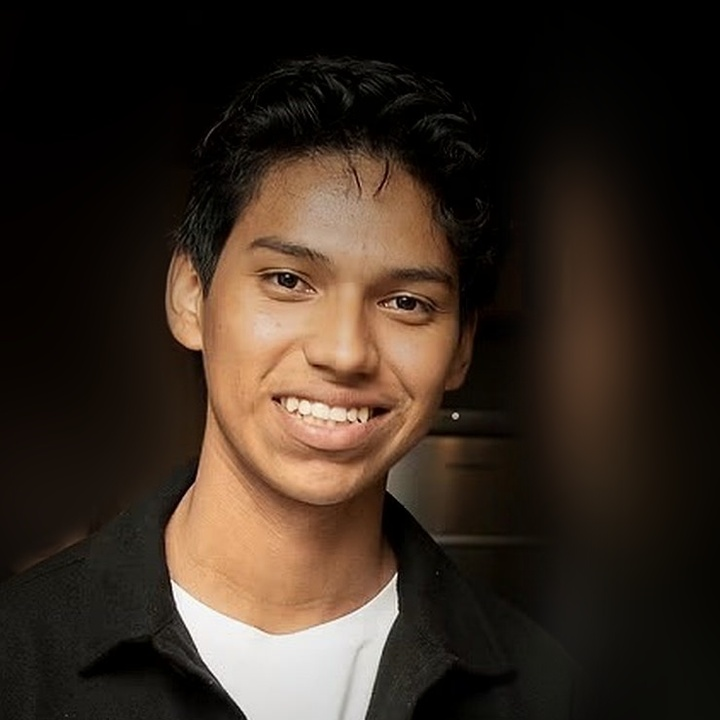
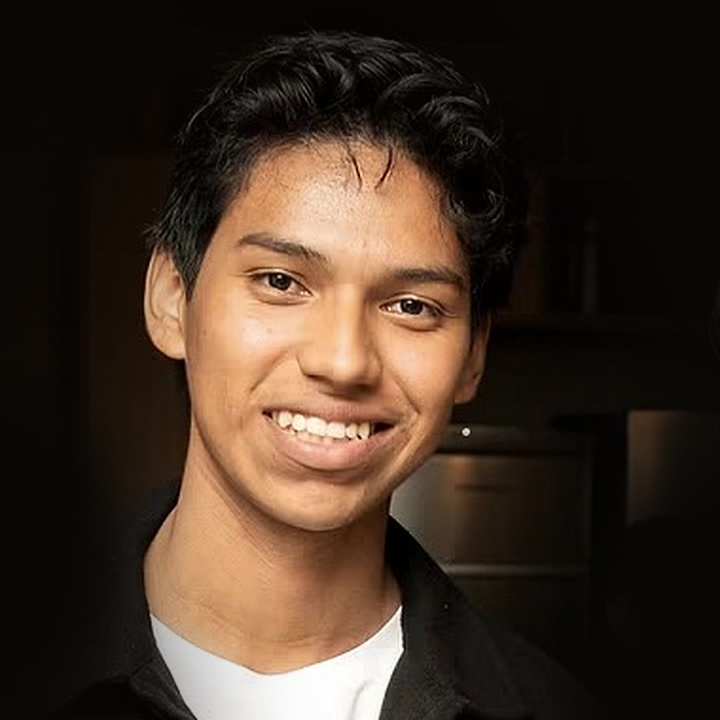
Recenter about photo from the original, spotlight instead of blur, bigger glowing circle
Claude-Session: https://claude.ai/code/session_018XHJdps5RptGA8mwEsNsSB

diff --git a/style.css b/style.css
@@ -109,7 +109,7 @@ body::before {
 .about { display: grid; grid-template-columns: auto minmax(0, 1fr); gap: 64px; align-items: center; }
 /* foto em círculo, menor e mais premium, com anel de luz girando */
 .about__photo {
-  --size: clamp(210px, 24vw, 300px);
+  --size: clamp(240px, 26vw, 330px);
   position: relative; width: var(--size); aspect-ratio: 1; justify-self: center;
   animation: aboutFloat 6s ease-in-out infinite;
 }
@@ -118,6 +118,7 @@ body::before {
   object-fit: cover; object-position: center;
   filter: brightness(1.06) contrast(1.06) saturate(1.05);
   border: 4px solid var(--bg);
+  box-shadow: 0 0 60px rgba(var(--accent-rgb), .45), 0 0 140px rgba(var(--accent-rgb), .18);
 }
 .about__ring {
   position: absolute; inset: -5px; border-radius: 50%; z-index: 0;
@@ -668,7 +669,7 @@ body::before {
 @media (max-width: 820px) {
   .how__grid .how__step { grid-template-columns: 1fr; padding: 26px 22px; gap: 18px; }
   .about { grid-template-columns: 1fr; gap: 44px; justify-items: center; }
-  .about__photo { --size: 220px; }
+  .about__photo { --size: 250px; }
   .about__copy { justify-items: start; }
   .steps__list { grid-template-columns: 1fr 1fr; }
   .step::after { display: none; }
